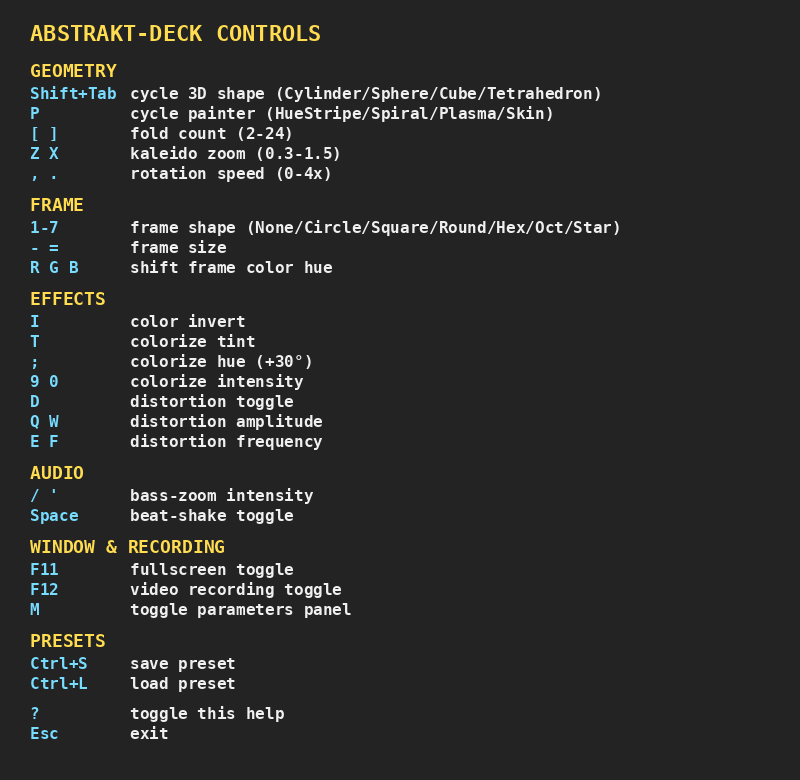
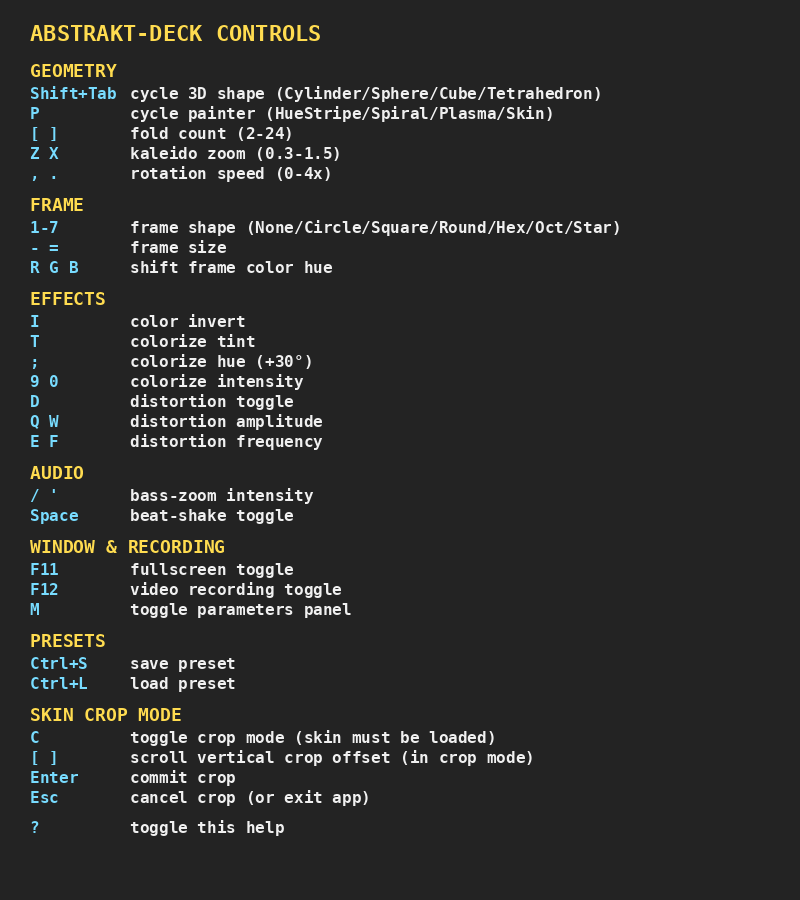
Slice 23c: manual vertical crop slider for skin images
After loading a skin via File → Open Skin, press C to enter crop mode.
[ / ] scroll the 16:1 horizontal strip up/down through the source image
in real-time (re-crops, re-resizes, re-uploads + regenerates mipmaps each
keystroke). Enter commits (frees source image), Esc reverts to center.
Window title shows CROP [offset] while active. [ / ] fall back to fold
count when crop mode is off.

Source image stored in skin_source_image: Option<DynamicImage>;
upload_skin_bytes() updates mip 0 in place and regenerates the chain.

Changed region(s): [[0.0312, 0.0308, 0.7812, 0.9538]]

diff --git a/src/main.rs b/src/main.rs
@@ -419,25 +419,32 @@ fn fs_main(in: Vary) -> @location(0) vec4<f32> {
     queue.submit(std::iter::once(encoder.finish()));
 }
 
-fn load_skin_image(path: &std::path::Path) -> Result<Vec<u8>, String> {
-    let img = image::open(path).map_err(|e| e.to_string())?;
-    let img = img.to_rgba8();
+fn decode_and_validate_skin(path: &std::path::Path) -> Result<image::DynamicImage, String> {
+    image::open(path).map_err(|e| e.to_string())
+}
+
+fn crop_skin_image(img: &image::DynamicImage, vertical_offset: f32) -> Vec<u8> {
+    use image::GenericImageView;
     let (src_w, src_h) = img.dimensions();
-    let (crop_w, crop_h) = if src_w as f32 / src_h as f32 > 16.0 {
-        ((src_h as f32 * 16.0) as u32, src_h)
+    let (crop_w, crop_h, crop_x, crop_y) = if src_w as f32 / src_h as f32 > 16.0 {
+        // Image wider than 16:1 — crop width to center, vertical_offset unused
+        let cw = (src_h as f32 * 16.0) as u32;
+        (cw, src_h, (src_w - cw) / 2, 0u32)
     } else {
-        (src_w, (src_w as f32 / 16.0) as u32)
+        // Image narrower than 16:1 — crop a thin horizontal strip at vertical_offset
+        let ch = ((src_w as f32 / 16.0).round() as u32).max(1);
+        let max_y = src_h.saturating_sub(ch);
+        let cy = (vertical_offset.clamp(0.0, 1.0) * max_y as f32) as u32;
+        (src_w, ch, 0u32, cy)
     };
-    let crop_x = (src_w - crop_w) / 2;
-    let crop_y = (src_h - crop_h) / 2;
-    let cropped = image::imageops::crop_imm(&img, crop_x, crop_y, crop_w, crop_h).to_image();
-    let resized = image::imageops::resize(
-        &cropped,
+    let cropped = img.crop_imm(crop_x, crop_y, crop_w, crop_h);
+    let rgba = cropped.to_rgba8();
+    image::imageops::resize(
+        &rgba,
         PAINTER_TEXTURE_WIDTH,
         PAINTER_TEXTURE_HEIGHT,
         image::imageops::FilterType::Lanczos3,
-    );
-    Ok(resized.into_raw())
+    ).into_raw()
 }
 
 fn preset_path() -> Option<std::path::PathBuf> {
@@ -557,6 +564,10 @@ struct GpuState {
     shake_velocity: glam::Vec3,
     bass_zoom_smoothed: f32,
     painter_scroll_phase: f32,
+
+    pub skin_source_image: Option<image::DynamicImage>,
+    pub crop_mode: bool,
+    pub crop_y_offset: f32,
 
     pub params: VisualParams,
 }
@@ -1339,6 +1350,9 @@ impl GpuState {
             shake_velocity: glam::Vec3::ZERO,
             bass_zoom_smoothed: 0.0,
             painter_scroll_phase: 0.0,
+            skin_source_image: None,
+            crop_mode: false,
+            crop_y_offset: 0.5,
             params: VisualParams::default(),
         }
     }
@@ -1850,6 +1864,27 @@ impl GpuState {
         self.skin_bind_group = new_bg;
     }
 
+    pub fn upload_skin_bytes(&mut self, rgba: &[u8]) {
+        self.queue.write_texture(
+            wgpu::ImageCopyTexture {
+                texture: &self.skin_tex, mip_level: 0,
+                origin: wgpu::Origin3d::ZERO, aspect: wgpu::TextureAspect::All,
+            },
+            rgba,
+            wgpu::ImageDataLayout {
+                offset: 0,
+                bytes_per_row: Some(PAINTER_TEXTURE_WIDTH * 4),
+                rows_per_image: Some(PAINTER_TEXTURE_HEIGHT),
+            },
+            wgpu::Extent3d {
+                width: PAINTER_TEXTURE_WIDTH,
+                height: PAINTER_TEXTURE_HEIGHT,
+                depth_or_array_layers: 1,
+            },
+        );
+        generate_skin_mipmaps(&self.device, &self.queue, &self.skin_tex, SKIN_MIP_LEVELS);
+    }
+
     pub fn toggle_recording(&mut self) {
         if self.recorder.is_some() {
             if let Some(rec) = self.recorder.take() {
@@ -2110,16 +2145,68 @@ impl ApplicationHandler for App {
                 }
                 match key_code {
                     KeyCode::Escape => {
-                        log::info!("Escape pressed");
-                        event_loop.exit();
+                        if gpu.crop_mode {
+                            gpu.crop_y_offset = 0.5;
+                            let rgba = gpu.skin_source_image.as_ref()
+                                .map(|src| crop_skin_image(src, 0.5));
+                            if let Some(rgba) = rgba {
+                                gpu.upload_skin_bytes(&rgba);
+                            }
+                            gpu.crop_mode = false;
+                            log::info!("Crop canceled — reverted to center");
+                        } else {
+                            log::info!("Escape pressed");
+                            event_loop.exit();
+                        }
+                    }
+                    KeyCode::Enter => {
+                        if gpu.crop_mode {
+                            gpu.skin_source_image = None;
+                            gpu.crop_mode = false;
+                            log::info!("Crop committed at offset {:.2}", gpu.crop_y_offset);
+                        }
+                    }
+                    KeyCode::KeyC if !ctrl => {
+                        if gpu.skin_source_image.is_some() {
+                            gpu.crop_mode = !gpu.crop_mode;
+                            if gpu.crop_mode {
+                                log::info!("Crop mode ON — [ ] to adjust, Enter to commit, Esc to cancel");
+                            } else {
+                                log::info!("Crop mode OFF");
+                            }
+                        } else {
+                            log::info!("No skin loaded — use File → Open Skin first");
+                        }
                     }
                     KeyCode::BracketLeft => {
-                        gpu.params.fold_count = (gpu.params.fold_count - 1.0).max(2.0);
-                        log::info!("fold_count = {}", gpu.params.fold_count);
+                        if gpu.crop_mode {
+                            gpu.crop_y_offset = (gpu.crop_y_offset - 0.02).max(0.0);
+                            let offset = gpu.crop_y_offset;
+                            let rgba = gpu.skin_source_image.as_ref()
+                                .map(|src| crop_skin_image(src, offset));
+                            if let Some(rgba) = rgba {
+                                gpu.upload_skin_bytes(&rgba);
+                            }
+                            log::info!("crop_y_offset = {:.2}", gpu.crop_y_offset);
+                        } else {
+                            gpu.params.fold_count = (gpu.params.fold_count - 1.0).max(2.0);
+                            log::info!("fold_count = {}", gpu.params.fold_count);
+                        }
                     }
                     KeyCode::BracketRight => {
-                        gpu.params.fold_count = (gpu.params.fold_count + 1.0).min(24.0);
-                        log::info!("fold_count = {}", gpu.params.fold_count);
+                        if gpu.crop_mode {
+                            gpu.crop_y_offset = (gpu.crop_y_offset + 0.02).min(1.0);
+                            let offset = gpu.crop_y_offset;
+                            let rgba = gpu.skin_source_image.as_ref()
+                                .map(|src| crop_skin_image(src, offset));
+                            if let Some(rgba) = rgba {
+                                gpu.upload_skin_bytes(&rgba);
+                            }
+                            log::info!("crop_y_offset = {:.2}", gpu.crop_y_offset);
+                        } else {
+                            gpu.params.fold_count = (gpu.params.fold_count + 1.0).min(24.0);
+                            log::info!("fold_count = {}", gpu.params.fold_count);
+                        }
                     }
                     KeyCode::KeyZ => {
                         gpu.params.zoom = (gpu.params.zoom - 0.05).max(0.3);
@@ -2309,11 +2396,15 @@ impl ApplicationHandler for App {
                                 .pick_file()
                             {
                                 log::info!("Selected file: {}", path.display());
-                                match load_skin_image(&path) {
-                                    Ok(rgba) => {
+                                match decode_and_validate_skin(&path) {
+                                    Ok(img) => {
+                                        let rgba = crop_skin_image(&img, 0.5);
                                         gpu.load_skin(rgba);
                                         gpu.params.painter_kind = PainterKind::Skin;
-                                        log::info!("Skin loaded and active");
+                                        gpu.skin_source_image = Some(img);
+                                        gpu.crop_y_offset = 0.5;
+                                        gpu.crop_mode = false;
+                                        log::info!("Skin loaded — press C to enter crop mode");
                                     }
                                     Err(e) => log::error!("Failed to load skin: {}", e),
                                 }
@@ -2380,14 +2471,17 @@ impl ApplicationHandler for App {
                 }
 
                 if let Some(fps) = self.fps.tick() {
-                    let title = if let Some(rec) = gpu.recorder.as_ref() {
+                    let title = if gpu.crop_mode {
+                        format!("abstrakt-deck — slice 23c — CROP [{:.2}] — {:.1} fps",
+                                gpu.crop_y_offset, fps)
+                    } else if let Some(rec) = gpu.recorder.as_ref() {
                         let secs = rec.elapsed().as_secs();
                         format!(
-                            "abstrakt-deck — slice 24c — ● REC {}:{:02} — {:.1} fps",
+                            "abstrakt-deck — slice 23c — ● REC {}:{:02} — {:.1} fps",
                             secs / 60, secs % 60, fps
                         )
                     } else {
-                        format!("abstrakt-deck — slice 24c — {:.1} fps", fps)
+                        format!("abstrakt-deck — slice 23c — {:.1} fps", fps)
                     };
                     window.set_title(&title);
                 }
@@ -2420,14 +2514,17 @@ fn main() {
     println!("  D      toggle distortion");
     println!("  Q W    distortion amplitude (0 to 0.5)");
     println!("  E F    distortion frequency (0.5 to 8)");
-    println!("  P      cycle painter (HueStripe → Spiral → Plasma)");
+    println!("  P      cycle painter (HueStripe → Spiral → Plasma → Skin)");
     println!("  M      toggle parameters panel");
     println!("  ?      toggle help overlay");
     println!("  F11    toggle fullscreen");
     println!("  F12    toggle video recording (saves to ~/Videos/abstrakt-deck/)");
     println!("  Ctrl+S save preset to ~/.config/abstrakt-deck/preset.json");
     println!("  Ctrl+L load preset from same file");
-    println!("  esc    exit");
+    println!("  C      toggle crop mode (after loading a skin image)");
+    println!("  [ ]    in crop mode: scroll vertical crop offset");
+    println!("  Enter  in crop mode: commit crop and free source image");
+    println!("  esc    in crop mode: cancel and revert to center; otherwise exit");
     println!("\nMIDI control (if device connected):");
     println!("  CC 1   fold count");
     println!("  CC 7   zoom");
@@ -2444,7 +2541,7 @@ fn main() {
     println!("  CC 80  distortion toggle");
     println!("  CC 81  distortion amplitude");
     println!("  CC 82  distortion frequency");
-    println!("  CC 66  cycle painter (HueStripe → Spiral → Plasma)");
+    println!("  CC 66  cycle painter (HueStripe → Spiral → Plasma → Skin)");
     println!("  Note On  trigger shake (like a beat)\n");
 
     log::info!("abstrakt-deck starting");

diff --git a/tools/generate_cheat_sheet.py b/tools/generate_cheat_sheet.py
@@ -10,7 +10,7 @@ from PIL import Image, ImageDraw, ImageFont
 import os
 
 WIDTH = 800
-HEIGHT = 780
+HEIGHT = 900
 BG = (0, 0, 0, 220)        # dark translucent background
 HEADER = (255, 220, 80)     # gold for category headers
 KEY = (120, 220, 255)       # cyan for key labels
@@ -53,8 +53,13 @@ LINES = [
     ("ENTRY", ("Ctrl+S", "save preset")),
     ("ENTRY", ("Ctrl+L", "load preset")),
     ("BLANK", ""),
+    ("CATEGORY", "SKIN CROP MODE"),
+    ("ENTRY", ("C", "toggle crop mode (skin must be loaded)")),
+    ("ENTRY", ("[ ]", "scroll vertical crop offset (in crop mode)")),
+    ("ENTRY", ("Enter", "commit crop")),
+    ("ENTRY", ("Esc", "cancel crop (or exit app)")),
+    ("BLANK", ""),
     ("ENTRY", ("?", "toggle this help")),
-    ("ENTRY", ("Esc", "exit")),
 ]
 
 

diff --git a/README.md b/README.md
@@ -21,7 +21,7 @@ Native Linux desktop audio-reactive kaleidoscope visualizer built with Rust + wg
 - **HueStripe**: scrolling rainbow vertical bands
 - **Spiral**: radial color spiral with arm rotation
 - **Plasma**: flowing demoscene-style color blobs
-- **Skin**: user-loaded image (File → Open Skin…), auto-cropped to 16:1 and resized to 4096×256
+- **Skin**: user-loaded image (File → Open Skin…), auto-cropped center 16:1 strip, resized to 4096×256. Press `C` after load to enter crop mode and scroll the strip up/down with `[`/`]`, `Enter` to commit, `Esc` to cancel
 
 ### Effects
 - Color invert